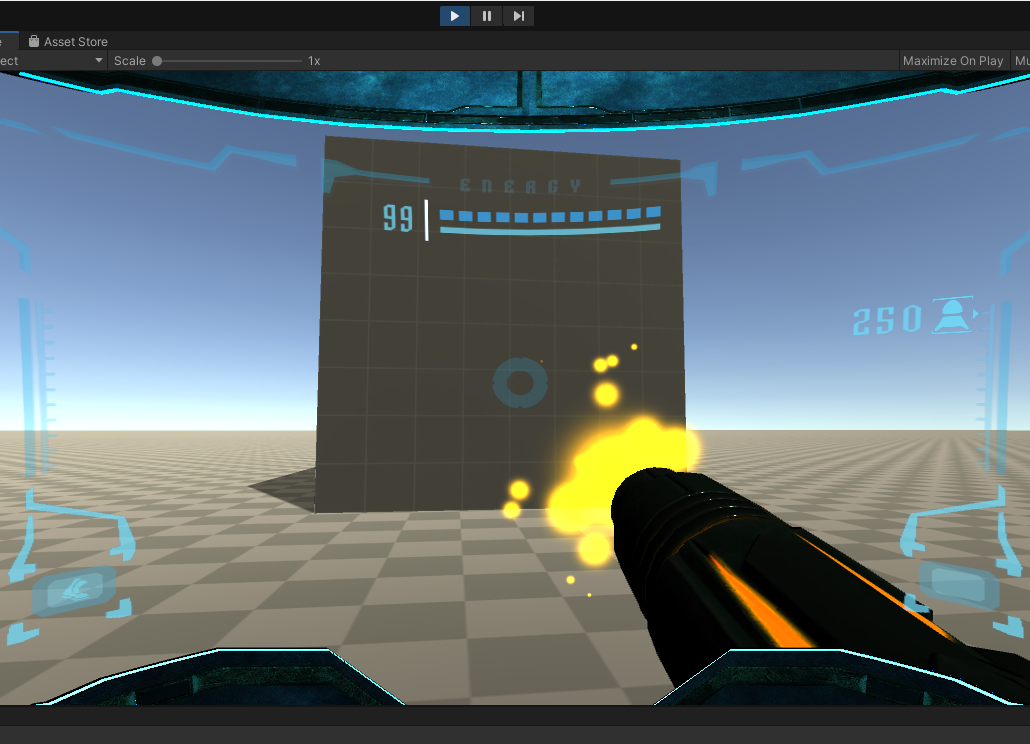
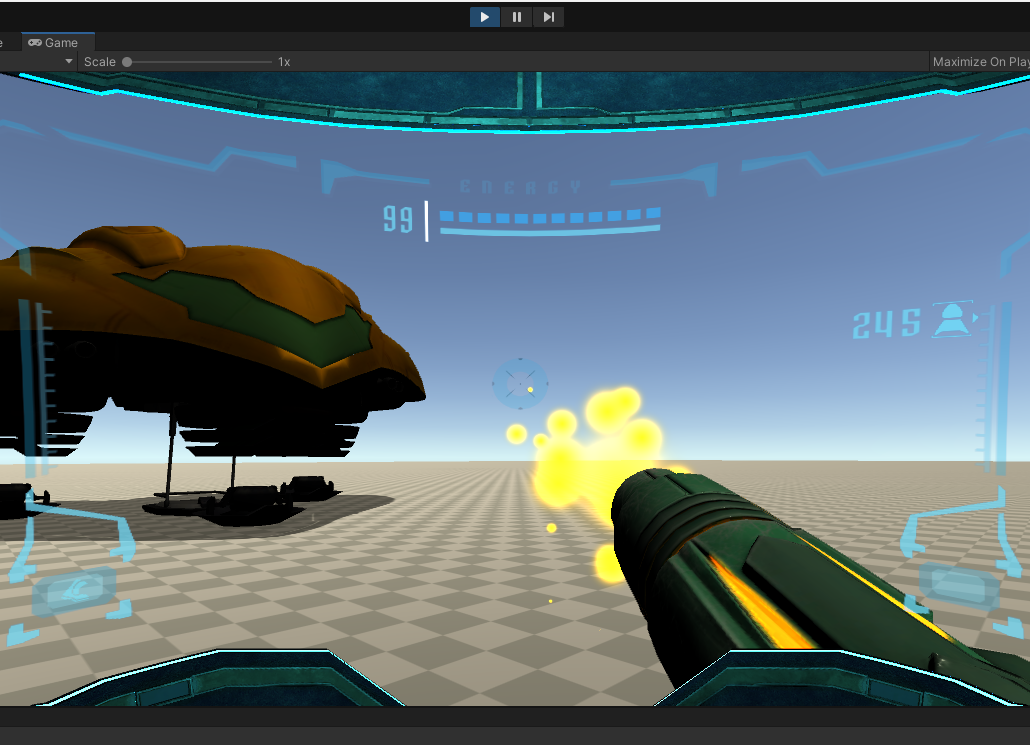
Edited the metroid prime entry

diff --git a/index.html b/index.html
@@ -101,7 +101,7 @@
                         <div class="portfolio-item mx-auto" data-toggle="modal" data-target="#portfolioModal5">
                             <div class="portfolio-item-caption d-flex align-items-center justify-content-center h-100 w-100">
                                 <div class="portfolio-item-caption-content text-center text-white"><i class="fas fa-plus fa-3x"></i></div>
-                            </div><img class="img-fluid" src="assets/img/portfolio/Untitled.png" alt="GitHub Page"/>
+                            </div><img class="img-fluid" src="assets/img/portfolio/sdif8A.png" alt="GitHub Page"/>
                         </div>
                     </div>
                 </div>
@@ -127,7 +127,7 @@
                                     <!-- Portfolio Modal - Image-->
 									<img class="img-fluid" src="assets/img/portfolio/fdWod7.png" alt="Scuffed Metroid Prime"/>
                                     <!-- Portfolio Modal - Text-->
-                                    <p class="mb-5">A small Project to recreate gameplay elements from Metroid Prime in Unity.</p>
+                                    <p class="mb-5">A project to recreate some aspects of Metroid Prime in Unity. <br>At the moment it features a first-person mode and a third-person morphball mode. <br>In first-person mode includes the arm cannon, which shoots energy blasts and rockets, as well as a double jump and a dash. Energy blasts can be charged by holding down LMB. <br>Third-person mode features the morphball to roll around as and drop bombs</p>
 									<p class="mb-5"><a href="https://github.com/BenPischinger/ScuffedMetroidPrime">Project on GitHub!</a></p>
                                     <button class="btn btn-primary" href="#" data-dismiss="modal"><i class="fas fa-times fa-fw"></i>Close Window</button>
                                 </div>
@@ -269,7 +269,7 @@
                                         <div class="divider-custom-icon"><i class="fas fa-star"></i></div>
                                         <div class="divider-custom-line"></div>
                                     </div>
-                                    <!-- Portfolio Modal - Image--><img class="img-fluid rounded mb-5" src="assets/img/portfolio/Untitled.png" alt="GitHub Page"/>
+                                    <!-- Portfolio Modal - Image--><img class="img-fluid rounded mb-5" src="assets/img/portfolio/sdif8A.png" alt="GitHub Page"/>
                                     <!-- Portfolio Modal - Text-->
                                     <p class="mb-5">You can find more coding examples on my GitHub page!</p>
 									<p class="mb-5"><a href="https://github.com/BenPischinger">Click Click!</a></p>
